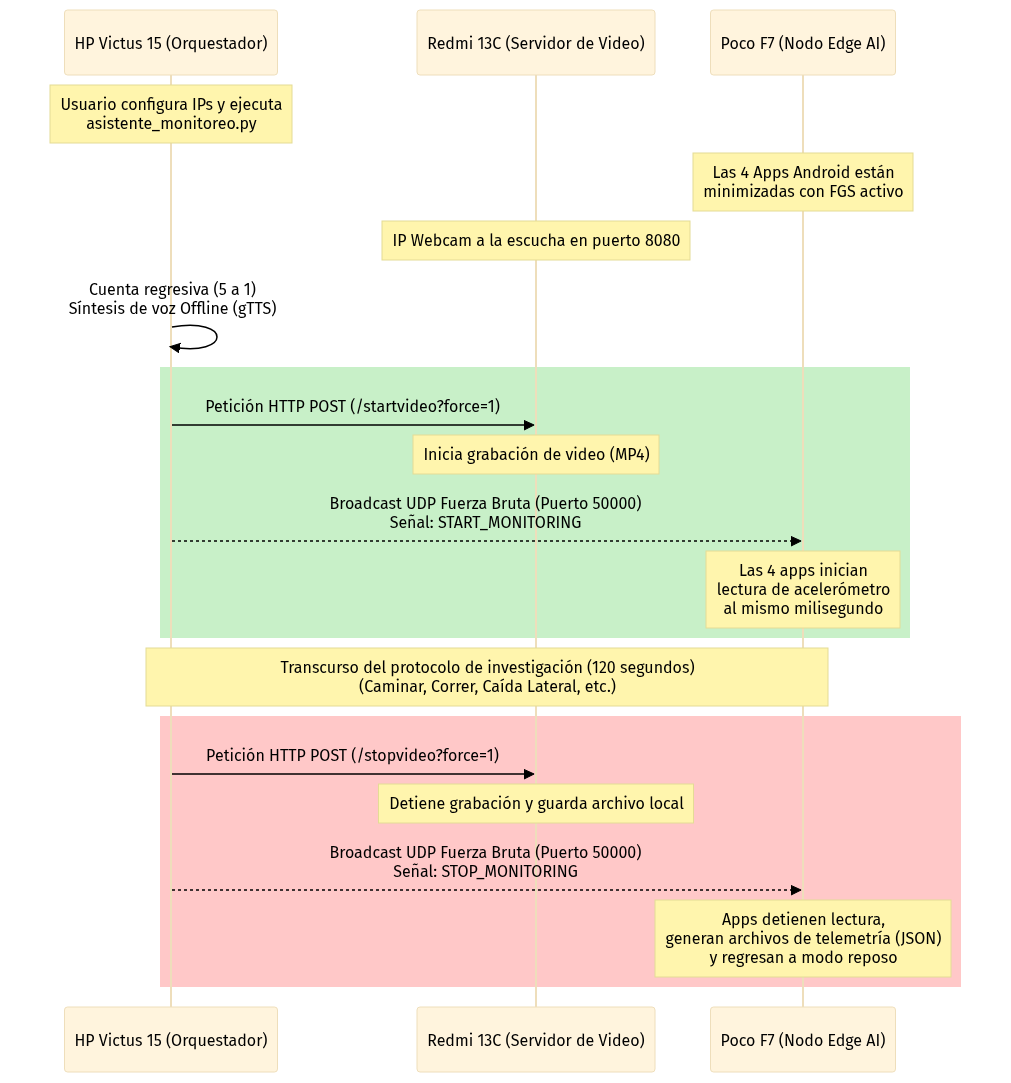
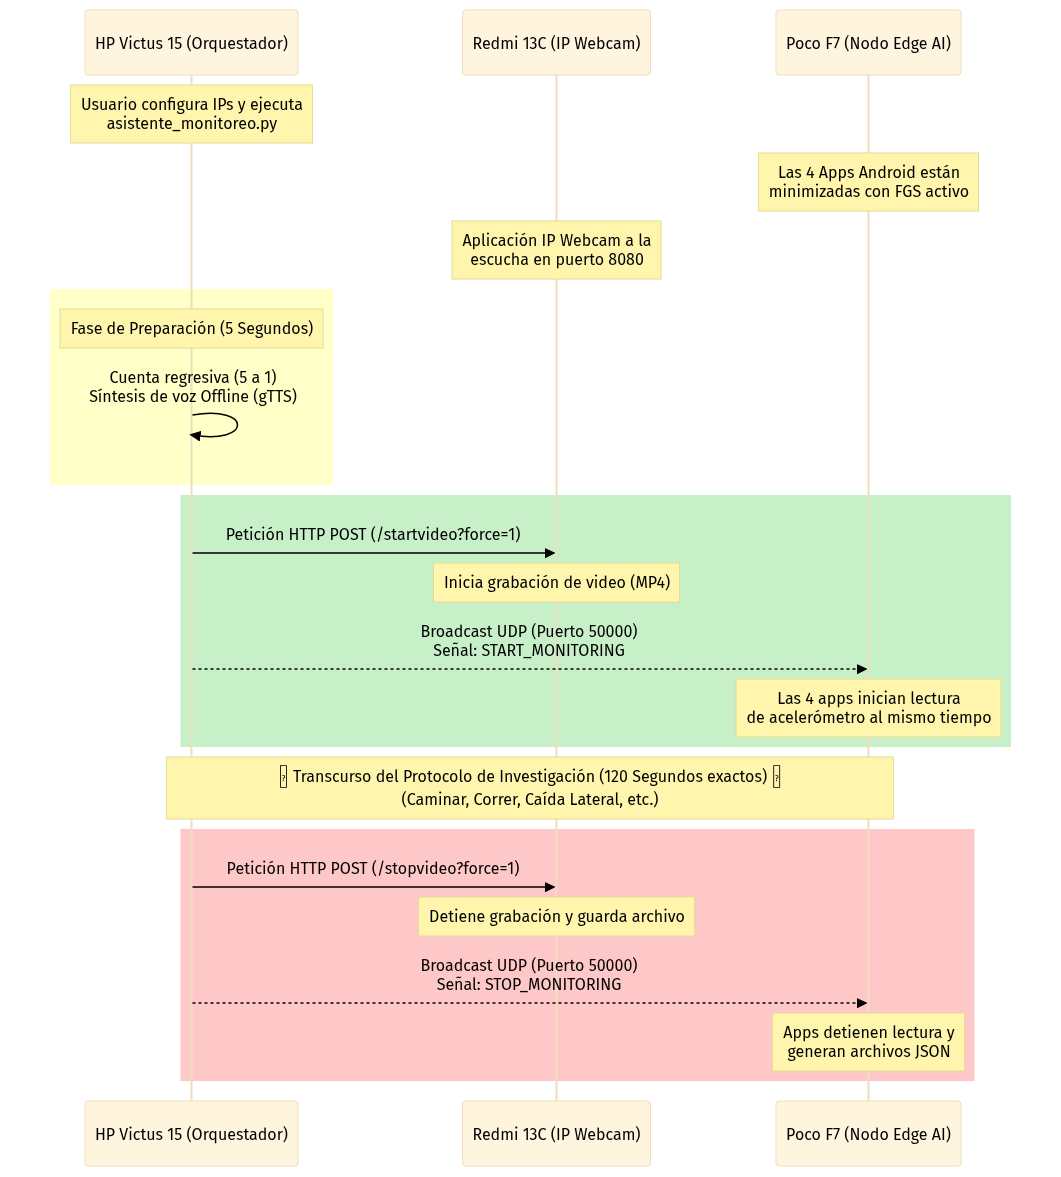
docs: Diagrama de flujo actualizado con tiempos explícitos (5s de preparación y 120s de prueba)

diff --git a/README.md b/README.md
@@ -38,14 +38,17 @@ El ecosistema está compuesto por tres nodos físicos principales que se comunic
 `mermaid
 sequenceDiagram
     participant PC as HP Victus 15 (Orquestador)
-    participant R13C as Redmi 13C (Servidor de Video)
+    participant R13C as Redmi 13C (IP Webcam)
     participant PF7 as Poco F7 (Nodo Edge AI)
 
     Note over PC: Usuario configura IPs y ejecuta<br/>asistente_monitoreo.py
     Note over PF7: Las 4 Apps Android están<br/>minimizadas con FGS activo
-    Note over R13C: IP Webcam a la escucha en puerto 8080
+    Note over R13C: Aplicación IP Webcam a la<br/>escucha en puerto 8080
     
+    rect rgb(255, 255, 200)
+    Note over PC: Fase de Preparación (5 Segundos)
     PC->>PC: Cuenta regresiva (5 a 1)<br/>Síntesis de voz Offline (gTTS)
+    end
     
     rect rgb(200, 240, 200)
     PC->>R13C: Petición HTTP POST (/startvideo?force=1)
@@ -55,7 +58,7 @@ sequenceDiagram
     Note over PF7: Las 4 apps inician<br/>lectura de acelerómetro<br/>al mismo milisegundo
     end
     
-    Note over PC,PF7: Transcurso del protocolo de investigación (120 segundos)<br/>(Caminar, Correr, Caída Lateral, etc.)
+    Note over PC,PF7: ⏳ Transcurso del Protocolo de Investigación (120 Segundos exactos) ⏳<br/>(Caminar, Correr, Caída Lateral, etc.)
     
     rect rgb(255, 200, 200)
     PC->>R13C: Petición HTTP POST (/stopvideo?force=1)